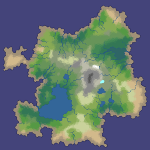
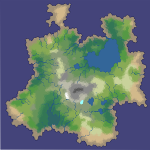
Improved minimap

diff --git a/src/common/controller.cpp b/src/common/controller.cpp
@@ -41,77 +41,128 @@ void Controller::init() {
 	_camera.resize(_window->getSize().x, _window->getSize().y );
 }
 
+void Controller::renderLifeBars() {
+  sf::RectangleShape lifeBar(sf::Vector2f(20., 2.));
+  lifeBar.setFillColor(sf::Color::Green);
+
+  sf::RectangleShape fullLifeBar(sf::Vector2f(20., 2.));
+  fullLifeBar.setFillColor(sf::Color::Transparent);
+  fullLifeBar.setOutlineColor(sf::Color::Black);
+  fullLifeBar.setOutlineThickness(1);
+
+  std::set<igElement*> sel = _game.getSelection();
+  sf::IntRect corners;
+  float maxHeightFactor;
+
+  for(auto it = sel.begin(); it != sel.end(); ++it) {
+    corners = (*it)->get2DCorners();
+    Controllable* ctrl = (Controllable*) (*it);
+    maxHeightFactor = ctrl->getMaxHeightFactor(); // The lifeBar must not change when switching animations
+
+    if (ctrl->getMovingType() == HUNTER) {
+      Lion* lion = (Lion*) ctrl;
+      lifeBar.setSize(sf::Vector2f(20.* lion->getStamina() / 100., 2.));
+    }
+
+    lifeBar.setPosition(corners.left + corners.width/2 - 10,
+      corners.top - corners.height*maxHeightFactor + corners.height - 5);
+    fullLifeBar.setPosition(corners.left + corners.width/2 - 10,
+      corners.top - corners.height*maxHeightFactor + corners.height - 5);
+
+    _window->draw(lifeBar);
+    _window->draw(fullLifeBar);
+    lifeBar.setSize(sf::Vector2f(20., 2.));
+  }
+}
+
+void Controller::renderMinimap() {
+  // Background image
+  _window->draw(_minimap);
+
+  // Position of the viewer
+  sf::Vector2f viewerPos( _minimap.getPosition().x +
+    (float) _minimap.getTextureRect().height * _camera.getPointedPos().y / _map.getMaxCoord(),
+                          _minimap.getPosition().y +
+    (float) _minimap.getTextureRect().width  * _camera.getPointedPos().x / _map.getMaxCoord());
+
+  sf::CircleShape miniCamPos(3);
+  miniCamPos.setPointCount(8);
+  miniCamPos.setFillColor(sf::Color::Black);
+  miniCamPos.setPosition( viewerPos - sf::Vector2f(miniCamPos.getRadius(),
+                                                   miniCamPos.getRadius()));
+
+  float theta = _camera.getTheta();
+  sf::RectangleShape miniCamDir(sf::Vector2f(6, 2));
+  miniCamDir.setFillColor(sf::Color::Black);
+  miniCamDir.setPosition(viewerPos - sf::Vector2f(cos(-theta*RAD), sin(-theta*RAD)));
+  miniCamDir.setRotation(-theta-90);
+
+  _window->draw(miniCamPos);
+  _window->draw(miniCamDir);
+
+  // Highlight generated chunks
+  float miniChunkSize = _minimap.getTextureRect().height / NB_CHUNKS;
+
+  sf::RectangleShape miniChunk(sf::Vector2f(miniChunkSize, miniChunkSize));
+  miniChunk.setFillColor(sf::Color::Black);
+  sf::Color edge(0,0,0,200);
+  sf::Color fog(0,0,0,100);
+
+  const std::map<sf::Vector2i, Chunk*, compChunkPos>& genTrn = _game.getGeneratedTerrain();
+  const std::set<sf::Vector2i, compChunkPos>& borderTrn = _game.getBorderTerrain();
+
+  for (size_t i = 0; i < NB_CHUNKS; i++) {
+    for (size_t j = 0; j < NB_CHUNKS; j++) {
+      sf::Vector2i currentPos(i,j);
+      miniChunk.setPosition(_minimap.getPosition() + sf::Vector2f(miniChunkSize*j, miniChunkSize*i));
+
+      if (genTrn.find(currentPos) == genTrn.end()) {
+        miniChunk.setFillColor(sf::Color::Black);
+        _window->draw(miniChunk);
+      }
+
+      else if (borderTrn.find(currentPos) != borderTrn.end()) {
+        miniChunk.setPosition(_minimap.getPosition() + sf::Vector2f(miniChunkSize*j, miniChunkSize*i));
+        miniChunk.setFillColor(edge);
+        _window->draw(miniChunk);
+      }
+
+      else if (!genTrn.at(currentPos)->isVisible()) {
+        miniChunk.setPosition(_minimap.getPosition() + sf::Vector2f(miniChunkSize*j, miniChunkSize*i));
+        miniChunk.setFillColor(fog);
+        _window->draw(miniChunk);
+      }
+    }
+  }
+}
+
+void Controller::renderLog() {
+  int fps = 1. / _elapsed.asSeconds();
+  std::ostringstream convert;
+  convert << fps;
+  _fpsCounter.setString("FPS: " + convert.str());
+  _window->draw(_fpsCounter);
+
+  convert.str(""); convert.clear();
+  convert << "X: " << _camera.getPointedPos().x << "\n"
+          << "Y: " << _camera.getPointedPos().y;
+  _posDisplay.setString(convert.str());
+  _window->draw(_posDisplay);
+}
+
 void Controller::render() {
   if (_running) {
-
-    // Game
-
     // _window->clear(sf::Color::Black);
     _game.render();
     _window->pushGLStates();
 
-    // Life bars
+    renderLifeBars();
 
-    sf::RectangleShape lifeBar(sf::Vector2f(20., 2.));
-    lifeBar.setFillColor(sf::Color::Green);
-    lifeBar.setOutlineThickness(0);
-    sf::RectangleShape fullLifeBar(sf::Vector2f(20., 2.));
-    fullLifeBar.setFillColor(sf::Color::Transparent);
-    fullLifeBar.setOutlineColor(sf::Color::Black);
-    fullLifeBar.setOutlineThickness(1);
-
-    std::set<igElement*> sel = _game.getSelection();
-    sf::IntRect corners;
-    float maxHeightFactor;
-
-    for(auto it = sel.begin(); it != sel.end(); ++it) {
-      corners = (*it)->get2DCorners();
-      Controllable* ctrl = (Controllable*) (*it);
-      maxHeightFactor = ctrl->getMaxHeightFactor(); // The lifeBar must not change when switching animations
-
-      if (ctrl->getMovingType() == HUNTER) {
-        Lion* lion = (Lion*) ctrl;
-        lifeBar.setSize(sf::Vector2f(20.* lion->getStamina() / 100., 2.));
-      }
-
-      lifeBar.setPosition(corners.left + corners.width/2 - 10, corners.top - corners.height*maxHeightFactor + corners.height - 5);
-      fullLifeBar.setPosition(corners.left + corners.width/2 - 10, corners.top - corners.height*maxHeightFactor + corners.height - 5);
-      _window->draw(lifeBar);
-      _window->draw(fullLifeBar);
-      lifeBar.setSize(sf::Vector2f(20., 2.));
-    }
-
-    // RectSelect
+    renderLog();
+    renderMinimap();
 
     _window->draw(_rectSelect);
 
-    // Minimap
-    _window->draw(_minimap);
-
-    sf::CircleShape miniCamPos(3);
-    miniCamPos.setPointCount(8);
-    miniCamPos.setFillColor(sf::Color::Black);
-    miniCamPos.setPosition( _minimap.getPosition().x - miniCamPos.getRadius() / 2 +
-                            (float) _minimap.getTextureRect().height * _camera.getPointedPos().x / _map.getMaxCoord(),
-
-                            _minimap.getPosition().y - miniCamPos.getRadius() / 2 +
-                            (float) _minimap.getTextureRect().width  * _camera.getPointedPos().y / _map.getMaxCoord());
-
-    _window->draw(miniCamPos);
-
-    // info
-
-    int fps = 1. / _elapsed.asSeconds();
-    std::ostringstream convert;
-    convert << fps;
-    _fpsCounter.setString("FPS: " + convert.str());
-    _window->draw(_fpsCounter);
-
-    convert.str(""); convert.clear();
-    convert << "X: " << _camera.getPointedPos().x << "\n"
-            << "Y: " << _camera.getPointedPos().y;
-    _posDisplay.setString(convert.str());
-    _window->draw(_posDisplay);
 
     _window->display();
     _window->popGLStates();
@@ -135,10 +186,10 @@ void Controller::run() {
 
       else if (event.type == sf::Event::MouseButtonPressed) {
         if (_minimap.getTextureRect().contains(sf::Vector2i(event.mouseButton.x, _window->getSize().y - event.mouseButton.y))) {
-          _game.moveCamera(sf::Vector2f( (float) (event.mouseButton.x - _minimap.getPosition().x) /
-                                         (float) _minimap.getTextureRect().width * _map.getMaxCoord(),
-                                         (float) (event.mouseButton.y - _minimap.getPosition().y) /
-                                         (float) _minimap.getTextureRect().height * _map.getMaxCoord()));
+          _game.moveCamera(sf::Vector2f( (float) (event.mouseButton.y - _minimap.getPosition().y) /
+                                         (float) _minimap.getTextureRect().height * _map.getMaxCoord(),
+                                         (float) (event.mouseButton.x - _minimap.getPosition().x) /
+                                         (float) _minimap.getTextureRect().width * _map.getMaxCoord()));
         }
 
         else {
@@ -220,7 +271,7 @@ void Controller::run() {
 
     }
 
-    // Move _camera
+    // Move camera
 
     if (sf::Keyboard::isKeyPressed(sf::Keyboard::Right))
       _camera.rotate(ROTATION_ANGLE_PS * _elapsed.asSeconds(), 0.);

diff --git a/src/terrain/heightmap.cpp b/src/terrain/heightmap.cpp
@@ -407,7 +407,7 @@ void Heightmap::calculateFrustum(const Camera* camera) {
 
 		_visible = true;
 
-    if (compareToPoints(pos,norm,_corners) == 1 && compareToPoints(pos,norm,_highests) == 1) {
+    if (compareToPoints(pos,norm,_corners) == 1) {// && compareToPoints(pos,norm,_highests) == 1) {
       _visible = false;
       return;
     }
@@ -415,7 +415,7 @@ void Heightmap::calculateFrustum(const Camera* camera) {
     // Top
     norm = vu::carthesian(1., theta, phi + camera->getFov()/2. - 90.);
 
-    if (compareToPoints(pos,norm,_corners) == 1 && compareToPoints(pos,norm,_lowests) == 1) {
+    if (compareToPoints(pos,norm,_corners) == 1) {// && compareToPoints(pos,norm,_lowests) == 1) {
       _visible = false;
       return;
     }
@@ -427,7 +427,7 @@ void Heightmap::calculateFrustum(const Camera* camera) {
     norm = rot.multiply(norm);
 
     if (compareToPoints(pos,norm,_corners) == 1) {
-      _visible = true;
+      _visible = false;
       return;
     }
 
@@ -437,7 +437,7 @@ void Heightmap::calculateFrustum(const Camera* camera) {
     norm = rot.multiply(norm);
 
     if (compareToPoints(pos,norm,_corners) == 1) {
-      _visible = true;
+      _visible = false;
       return;
     }
 }

diff --git a/src/common/game.h b/src/common/game.h
@@ -45,8 +45,10 @@ public:
 	void addLion(sf::Vector2i screenTarget);
 	void generateHerd(sf::Vector2<double> pos, size_t count);
 
-	inline std::set<igElement*> getSelection() const {return _sel;}
-	inline std::vector<igElement*> getElements() const {return _e;}
+	inline const std::set<igElement*>& getSelection() const {return _sel;}
+	inline const std::vector<igElement*>& getElements() const {return _e;}
+  inline const std::map<sf::Vector2i, Chunk*, compChunkPos>& getGeneratedTerrain() const {return _terrain;}
+  inline const std::set<sf::Vector2i, compChunkPos>& getBorderTerrain() const {return _terrainBorder;}
 
 private:
 	sf::Vector2i neighbour(sf::Vector2i pos, int index) const;

diff --git a/src/common/game.cpp b/src/common/game.cpp
@@ -9,8 +9,8 @@
 
 #define MIN_ANTILOPE_PROX 5.f
 #define HERD_RADIUS 10.f // for 10 antilopes
-#define CHUNK_BEGIN_X 30
-#define CHUNK_BEGIN_Y 11
+#define CHUNK_BEGIN_X 10
+#define CHUNK_BEGIN_Y 10
 
 Game::Game(Camera* camera, Map* map) :
   _cam(camera),
@@ -331,8 +331,6 @@ void Game::generateHerd(sf::Vector2<double> pos, size_t count) {
   double r, theta;
   sf::Vector2<double> p, diff;
   bool add;
-
-  _e.push_back(new Lion(pos, AnimationManager(_lionTexManager)));
 
   std::vector<Antilope*> tmp;
 

diff --git a/src/common/controller.h b/src/common/controller.h
@@ -19,6 +19,11 @@ public:
 	void render();
 
 private:
+	void renderLifeBars();
+	void renderMinimap();
+	void renderLog();
+
+
 	bool _addSelect;
 	bool _selecting;
 	sf::RectangleShape _rectSelect;

diff --git a/src/terrain/heightmap.h b/src/terrain/heightmap.h
@@ -7,8 +7,7 @@
 #include "texManager.h"
 #include "map.h"
 
-// #define HEIGHT_FACTOR 1000.
-#define HEIGHT_FACTOR 1.
+#define HEIGHT_FACTOR 1000.
 
 typedef struct Region Region;
 struct Region {

diff --git a/src/utils/utils.h b/src/utils/utils.h
@@ -3,6 +3,7 @@
 
 #define BUFFER_OFFSET(a) ((char*)NULL + (a))
 #define CHUNK_SIZE 256.
+#define NB_CHUNKS 50.
 #define NB_BIOMES 20
 
 enum Biome {OCEAN, WATER, LAKE, ICE, MARSH, BEACH, RIVER,

diff --git a/src/terrain/map.cpp b/src/terrain/map.cpp
@@ -9,7 +9,7 @@
 #define MAP_MAX_COORD 600.
 
 Map::Map() :
-	_nbChunks(50),
+	_nbChunks(NB_CHUNKS),
 	_maxCoord(_nbChunks * CHUNK_SIZE) {}
 
 void Map::load(std::string path) {
